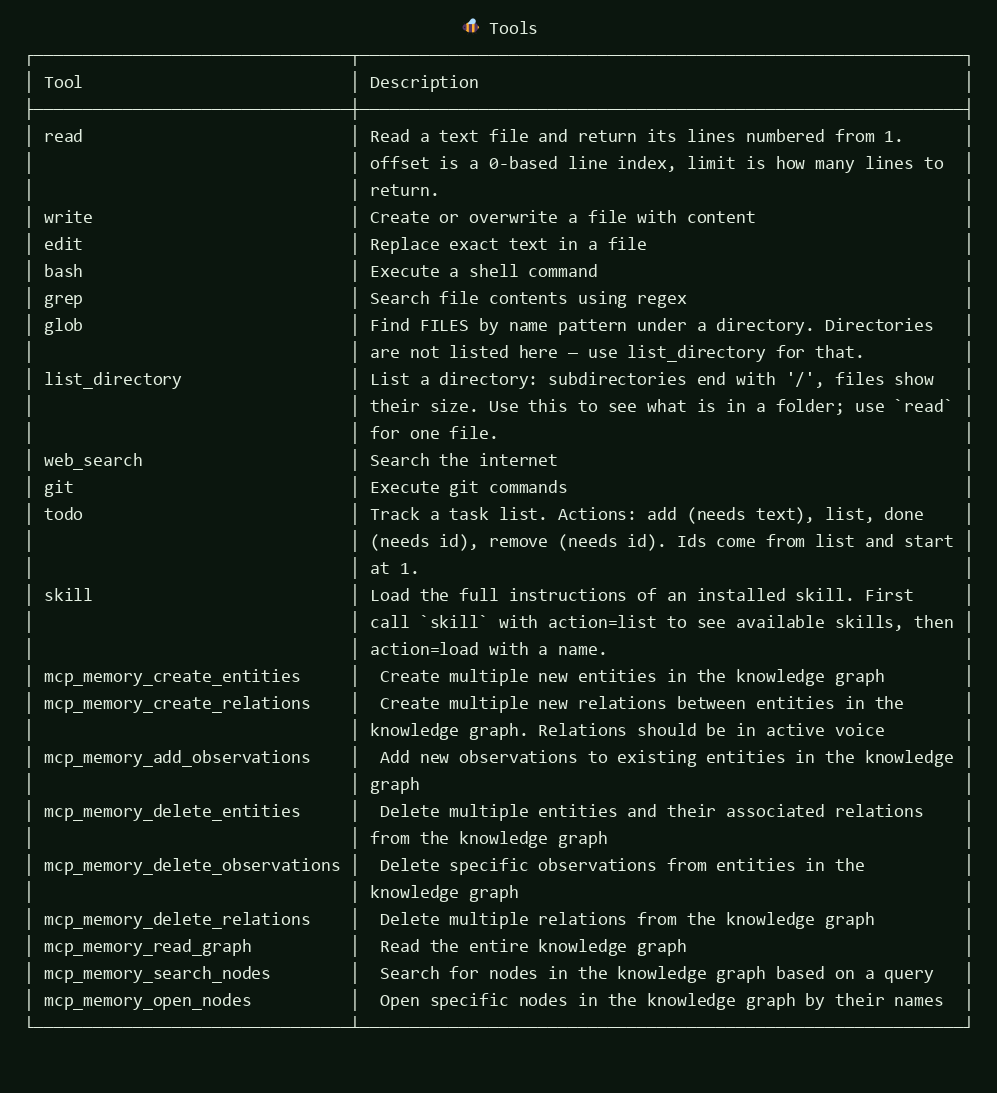
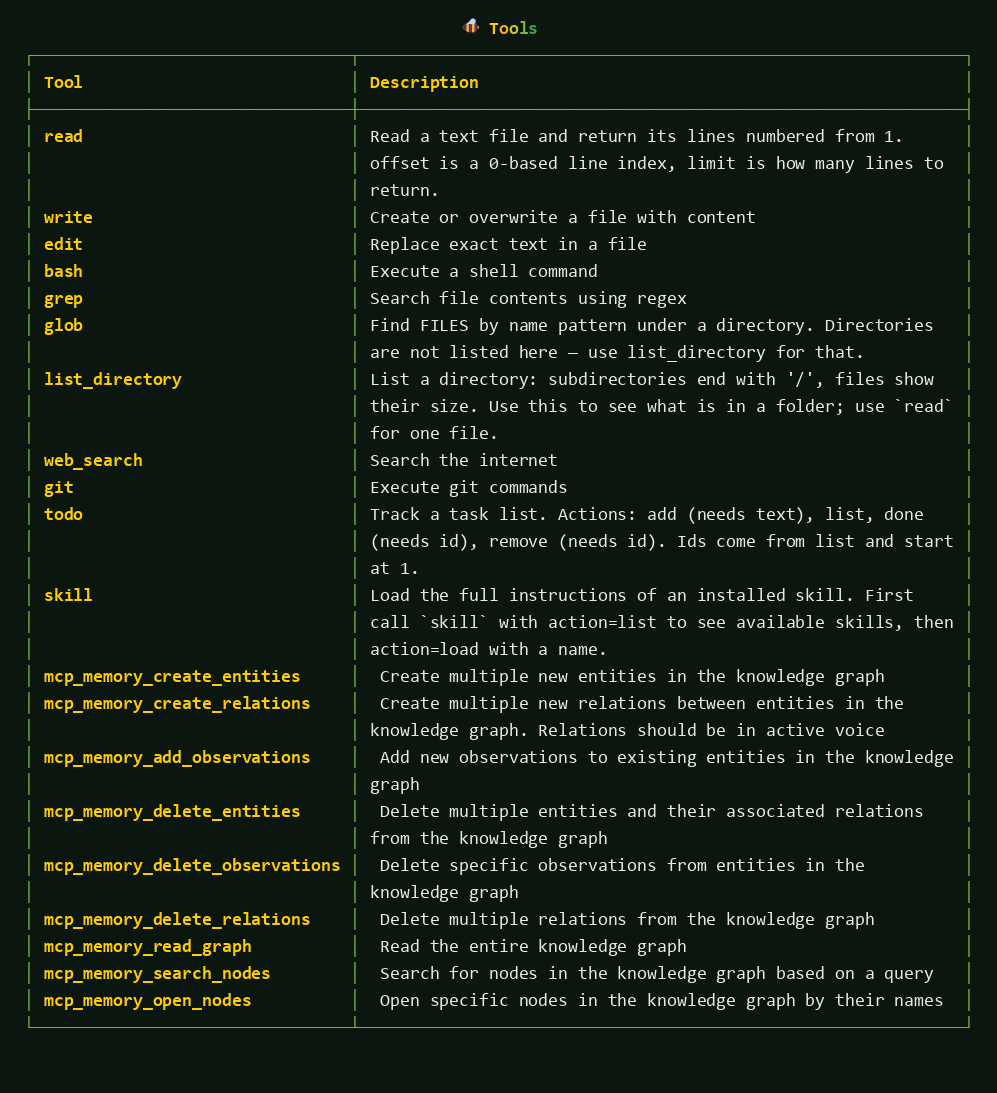
docs: screenshots regenerated from the real renderers, sync scripts

diff --git a/scripts/make_screenshots.py b/scripts/make_screenshots.py
@@ -29,11 +29,11 @@ BG = (11, 22, 14)          # deep hive green, like the terminal in the screensho
 DEFAULT_FG = (226, 238, 224)
 
 SGR = re.compile(r"\x1b\[([0-9;:?]*)m")
-# Sequences the painter ignores. Note `[A-Za-df-z]`: dropping `m` here is what
-# lets the SGR colour codes above survive to be parsed.
+# Sequences the painter ignores. The letter class deliberately stops short of
+# `m`: that is what lets the SGR colour codes above survive to be parsed.
 OTHER = re.compile(
     r"\x1b[\]>][^\x07\x1b]*(?:\x07|\x1b\\)"
-    r"|\x1b\[[0-9;:?]*[A-Za-df-z]"
+    r"|\x1b\[[0-9;:?]*(?:[A-Z]|[a-ln-z])"
     r"|\x1b[()][0-9A-B]"
 )
 
